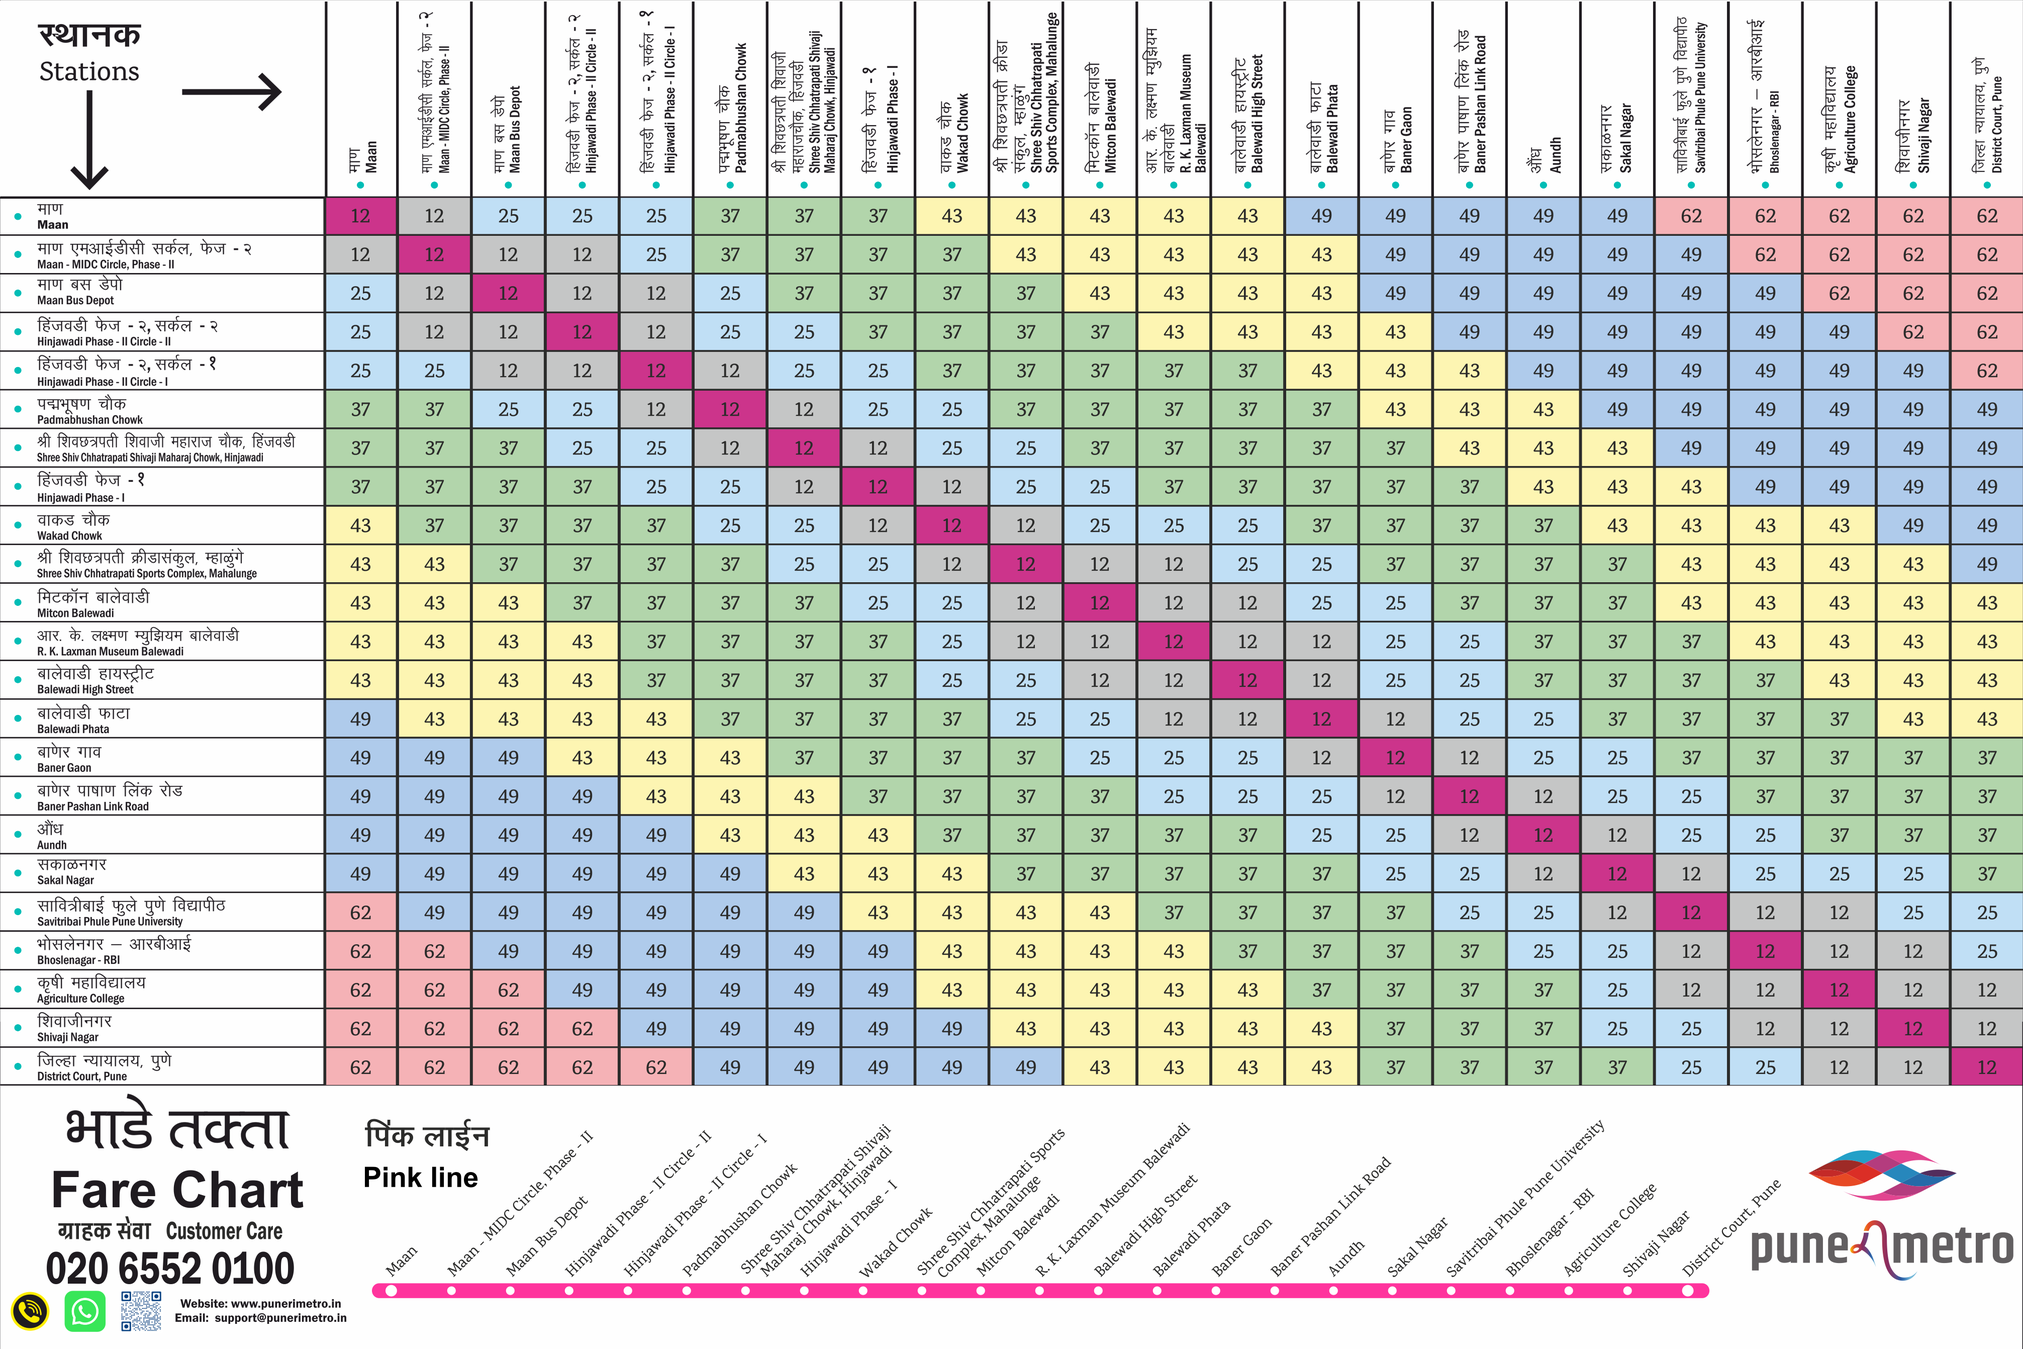
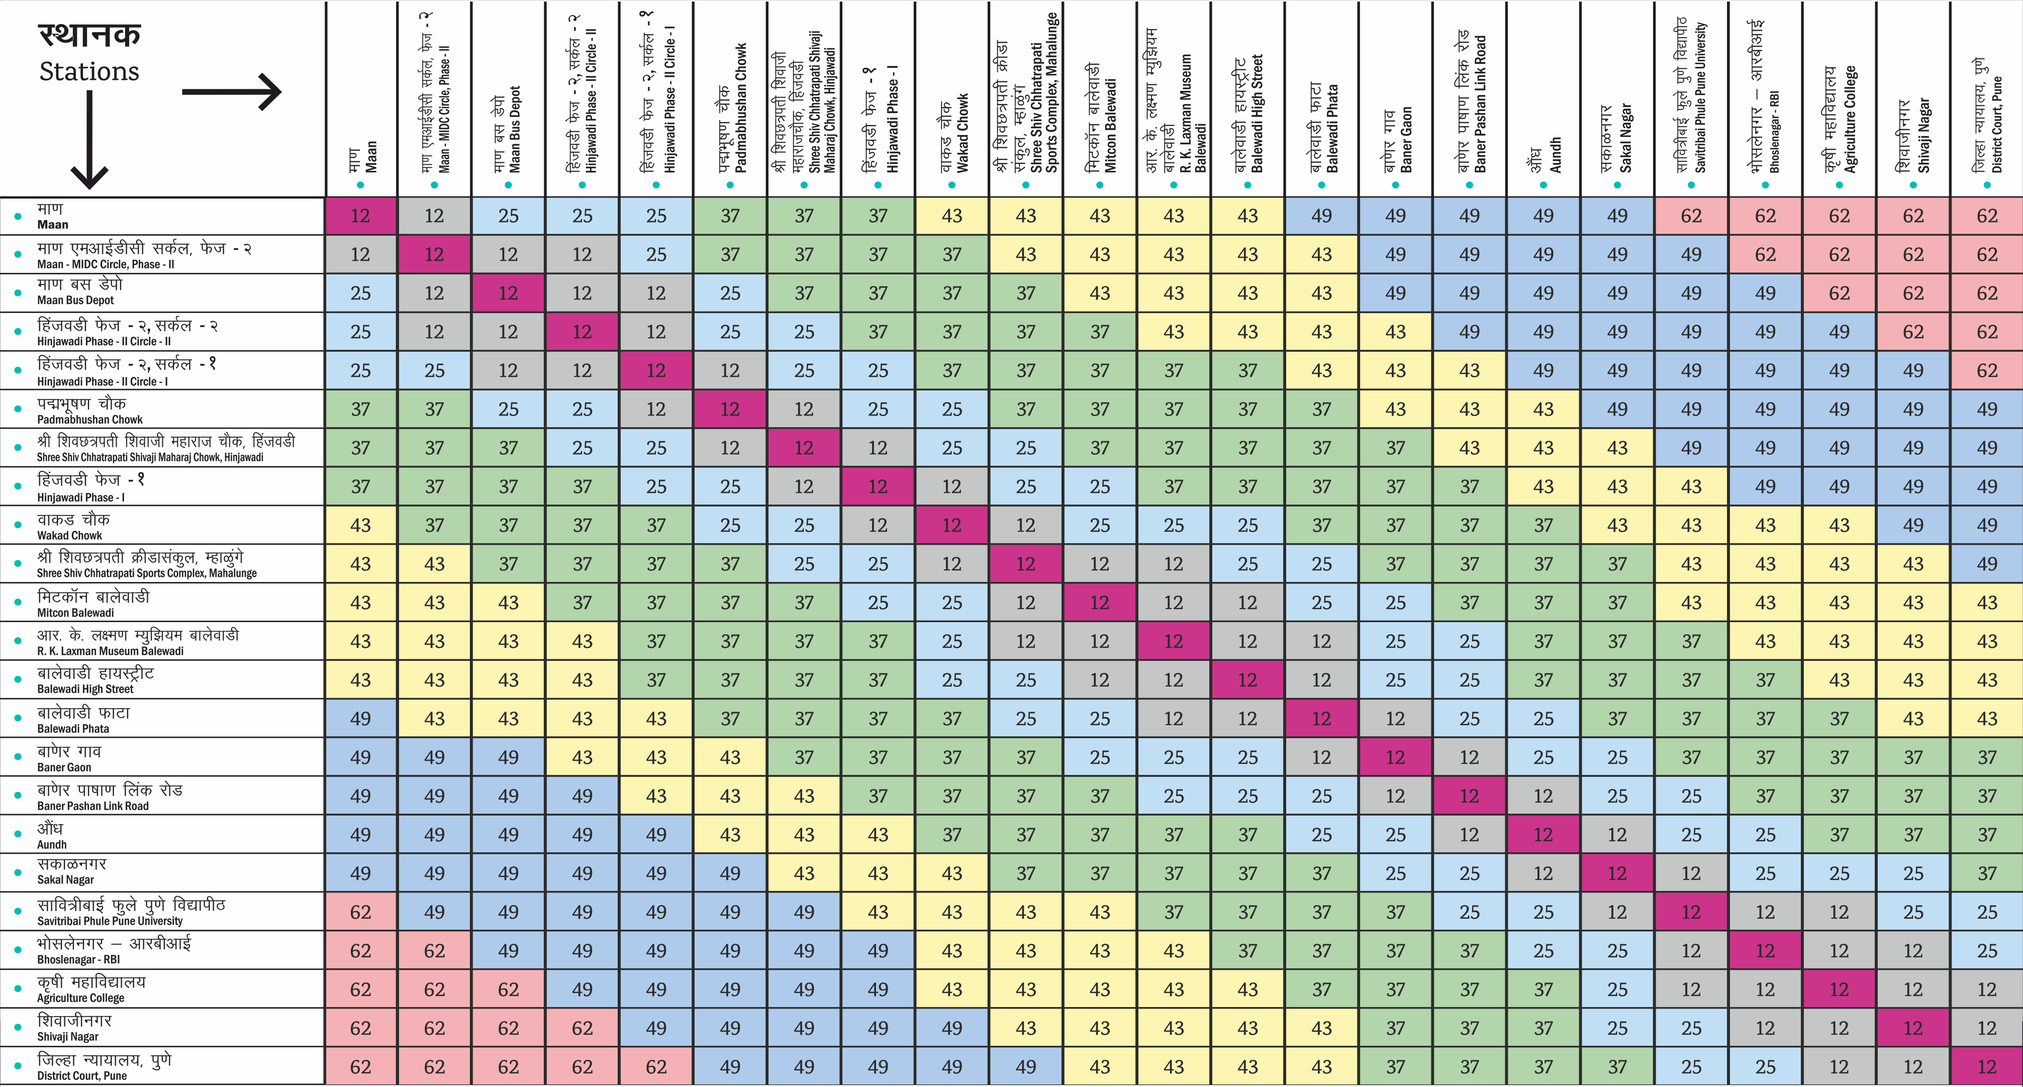
Show a readable fare table and drop the footer from the chart image
Fares and bilingual station names are read from the PDF's own shapes into config/fare_chart.php and rendered as a sticky-header table with row/column highlight. The chart image no longer includes the footer strip and opens via View original chart.

diff --git a/resources/js/components/landing/FareMatrix.tsx b/resources/js/components/landing/FareMatrix.tsx
@@ -1,0 +1,160 @@
+import { useState } from 'react';
+import { cn } from '@/lib/utils';
+
+export type FareStation = { en: string; mr: string };
+
+type Props = {
+    stations: FareStation[];
+    /** fares[row][column] is the fare in rupees between stations[row] and stations[column]. */
+    fares: number[][];
+};
+
+/** Colours of the official fare chart artwork. */
+const FARE_COLORS: Record<number, string> = {
+    12: '#c5c6c6',
+    25: '#c0dff5',
+    37: '#b2d5ab',
+    43: '#fdf5b2',
+    49: '#afcbeb',
+    62: '#f5b2b6',
+};
+const SAME_STATION_COLOR = '#cc348b';
+const LEGEND_FARES = Object.keys(FARE_COLORS).map(Number);
+
+export default function FareMatrix({ stations, fares }: Props) {
+    const [hover, setHover] = useState<{ row: number; col: number } | null>(
+        null,
+    );
+
+    return (
+        <div>
+            <ul
+                className="mb-4 flex flex-wrap items-center gap-x-5 gap-y-2"
+                aria-label="Fare colour key"
+            >
+                {LEGEND_FARES.map((fare) => (
+                    <li
+                        key={fare}
+                        className="flex items-center gap-2 font-montserrat text-sm font-semibold text-black"
+                    >
+                        <span
+                            className="size-5 rounded border border-black/10"
+                            style={{ background: FARE_COLORS[fare] }}
+                        />
+                        ₹{fare}
+                    </li>
+                ))}
+                <li className="flex items-center gap-2 font-montserrat text-xs text-gray-600">
+                    <span
+                        className="size-5 rounded border border-black/10"
+                        style={{ background: SAME_STATION_COLOR }}
+                    />
+                    Same station
+                </li>
+            </ul>
+
+            <div
+                className="max-h-[78vh] overflow-auto rounded-3xl border border-gray-200 bg-white"
+                onMouseLeave={() => setHover(null)}
+            >
+                <table className="border-separate border-spacing-0">
+                    <caption className="sr-only">
+                        Fare in rupees between every pair of Pune Metro Line 3
+                        stations. Find the starting station in the left column
+                        and the destination in the top row.
+                    </caption>
+                    <thead>
+                        <tr>
+                            <th className="sticky top-0 left-0 z-30 min-w-[160px] border-r border-b border-gray-300 bg-white p-3 text-left align-top md:min-w-[260px]">
+                                <span className="block font-montserrat text-base font-bold text-black">
+                                    स्थानक
+                                </span>
+                                <span className="block font-montserrat text-sm text-black">
+                                    Stations
+                                </span>
+                                <span className="font-inter mt-2 block text-xs text-gray-600">
+                                    From ↓ &nbsp; To →
+                                </span>
+                            </th>
+                            {stations.map((station, col) => (
+                                <th
+                                    key={station.en}
+                                    scope="col"
+                                    className={cn(
+                                        'sticky top-0 z-20 h-72 w-14 min-w-14 border-r border-b border-gray-300 bg-white px-1 py-3 align-bottom transition-colors',
+                                        hover?.col === col && 'bg-[#fbe3f0]',
+                                    )}
+                                >
+                                    <div className="mx-auto flex rotate-180 gap-1.5 text-left [writing-mode:vertical-rl]">
+                                        <span className="font-montserrat text-xs leading-tight font-bold text-black">
+                                            {station.en}
+                                        </span>
+                                        <span className="font-montserrat text-[13px] leading-tight text-black">
+                                            {station.mr}
+                                        </span>
+                                    </div>
+                                </th>
+                            ))}
+                        </tr>
+                    </thead>
+                    <tbody>
+                        {stations.map((from, row) => (
+                            <tr key={from.en}>
+                                <th
+                                    scope="row"
+                                    className={cn(
+                                        'sticky left-0 z-10 min-w-[160px] border-r border-b border-gray-300 bg-white px-3 py-1.5 text-left transition-colors md:min-w-[260px]',
+                                        hover?.row === row && 'bg-[#fbe3f0]',
+                                    )}
+                                >
+                                    <span className="block font-montserrat text-sm leading-tight text-black">
+                                        {from.mr}
+                                    </span>
+                                    <span className="block font-montserrat text-xs leading-tight font-bold text-black">
+                                        {from.en}
+                                    </span>
+                                </th>
+                                {stations.map((to, col) => {
+                                    const isSame = row === col;
+                                    const isHovered =
+                                        hover?.row === row && hover.col === col;
+
+                                    return (
+                                        <td
+                                            key={to.en}
+                                            title={
+                                                isSame
+                                                    ? from.en
+                                                    : `${from.en} → ${to.en}: ₹${fares[row][col]}`
+                                            }
+                                            onMouseEnter={() =>
+                                                setHover({ row, col })
+                                            }
+                                            className={cn(
+                                                'h-12 w-14 min-w-14 border-r border-b border-white/70 text-center font-montserrat text-sm font-semibold',
+                                                isSame
+                                                    ? 'text-white'
+                                                    : 'text-black',
+                                                isHovered &&
+                                                    'ring-2 ring-black ring-inset',
+                                            )}
+                                            style={{
+                                                background: isSame
+                                                    ? SAME_STATION_COLOR
+                                                    : FARE_COLORS[
+                                                          fares[row][col]
+                                                      ],
+                                            }}
+                                        >
+                                            {fares[row][col]}
+                                        </td>
+                                    );
+                                })}
+                            </tr>
+                        ))}
+                    </tbody>
+                </table>
+            </div>
+        </div>
+    );
+}

diff --git a/resources/js/pages/frontend/passenger-info/fare-table.tsx b/resources/js/pages/frontend/passenger-info/fare-table.tsx
@@ -1,5 +1,7 @@
 import { Head } from '@inertiajs/react';
 import { useState } from 'react';
+import FareMatrix from '@/components/landing/FareMatrix';
+import type { FareStation } from '@/components/landing/FareMatrix';
 import PageSectionHeading from '@/components/landing/PageSectionHeading';
 import ImageLightbox from '@/components/ui/image-lightbox';
 
@@ -7,7 +9,13 @@ const fareChartSrc = '/fare-table/pune-metro-fare-chart.png';
 const fareChartAlt =
     'Pune Metro Line 3 fare chart: fares between all 23 stations from Maan to District Court, Pune';
 
-export default function FareTable() {
+export default function FareTable({
+    stations,
+    fares,
+}: {
+    stations: FareStation[];
+    fares: number[][];
+}) {
     const [lightboxOpen, setLightboxOpen] = useState(false);
 
     return (
@@ -36,10 +44,16 @@ export default function FareTable() {
                     <PageSectionHeading>
                         Fare Table / Ticket Rules
                     </PageSectionHeading>
+                    <p className="font-inter mt-3 text-sm text-black">
+                        Fares in rupees between all 23 stations of Pune Metro
+                        Line 3 (Pink line). Find your starting station on the
+                        left and your destination along the top; the number
+                        where they meet is your fare.
+                    </p>
                 </div>
             </section>
 
-            {/* ── Content ── */}
+            {/* ── Fare Matrix ── */}
             {lightboxOpen && (
                 <ImageLightbox
                     src={fareChartSrc}
@@ -49,21 +63,16 @@ export default function FareTable() {
             )}
             <section className="bg-white pt-6 pb-8 md:pt-8 md:pb-24">
                 <div className="mx-auto max-w-[1303px] px-6 min-[1303px]:px-8 min-[1440px]:max-w-[1440px]">
-                    <button
-                        type="button"
-                        onClick={() => setLightboxOpen(true)}
-                        title="Click to enlarge"
-                        className="block w-full cursor-zoom-in overflow-hidden rounded-3xl border border-gray-200 bg-white"
-                    >
-                        <img
-                            src={fareChartSrc}
-                            alt={fareChartAlt}
-                            className="h-auto w-full object-contain"
-                        />
-                    </button>
-                    <p className="mt-3 font-montserrat text-xs text-gray-500">
-                        Tap or click the chart to zoom in.
-                    </p>
+                    <div className="mb-4 flex justify-end">
+                        <button
+                            type="button"
+                            onClick={() => setLightboxOpen(true)}
+                            className="rounded-md bg-brand-dark px-5 py-2.5 font-montserrat text-sm font-semibold text-white transition-opacity hover:opacity-90"
+                        >
+                            View original chart
+                        </button>
+                    </div>
+                    <FareMatrix stations={stations} fares={fares} />
                 </div>
             </section>
         </>

diff --git a/config/fare_chart.php b/config/fare_chart.php
@@ -1,0 +1,58 @@
+<?php
+
+/**
+ * Pune Metro Line 3 (Pink line) fare chart, read from the official fare chart artwork.
+ * `fares[row][column]` is the fare in rupees between `stations[row]` and `stations[column]`.
+ */
+return [
+    'stations' => [
+        ['en' => 'Maan', 'mr' => 'माण'],
+        ['en' => 'Maan - MIDC Circle, Phase - II', 'mr' => 'माण एमआईडीसी सर्कल, फेज - २'],
+        ['en' => 'Maan Bus Depot', 'mr' => 'माण बस डेपो'],
+        ['en' => 'Hinjawadi Phase - II Circle - II', 'mr' => 'हिंजवडी फेज - २, सर्कल - २'],
+        ['en' => 'Hinjawadi Phase - II Circle - I', 'mr' => 'हिंजवडी फेज - २, सर्कल - १'],
+        ['en' => 'Padmabhushan Chowk', 'mr' => 'पद्मभूषण चौक'],
+        ['en' => 'Shree Shiv Chhatrapati Shivaji Maharaj Chowk, Hinjawadi', 'mr' => 'श्री शिवछत्रपती शिवाजी महाराज चौक, हिंजवडी'],
+        ['en' => 'Hinjawadi Phase - I', 'mr' => 'हिंजवडी फेज - १'],
+        ['en' => 'Wakad Chowk', 'mr' => 'वाकड चौक'],
+        ['en' => 'Shree Shiv Chhatrapati Sports Complex, Mahalunge', 'mr' => 'श्री शिवछत्रपती क्रीडासंकुल, म्हाळुंगे'],
+        ['en' => 'Mitcon Balewadi', 'mr' => 'मिटकॉन बालेवाडी'],
+        ['en' => 'R. K. Laxman Museum Balewadi', 'mr' => 'आर. के. लक्ष्मण म्युझियम बालेवाडी'],
+        ['en' => 'Balewadi High Street', 'mr' => 'बालेवाडी हायस्ट्रीट'],
+        ['en' => 'Balewadi Phata', 'mr' => 'बालेवाडी फाटा'],
+        ['en' => 'Baner Gaon', 'mr' => 'बाणेर गाव'],
+        ['en' => 'Baner Pashan Link Road', 'mr' => 'बाणेर पाषाण लिंक रोड'],
+        ['en' => 'Aundh', 'mr' => 'औंध'],
+        ['en' => 'Sakal Nagar', 'mr' => 'सकाळनगर'],
+        ['en' => 'Savitribai Phule Pune University', 'mr' => 'सावित्रीबाई फुले पुणे विद्यापीठ'],
+        ['en' => 'Bhoslenagar - RBI', 'mr' => 'भोसलेनगर – आरबीआई'],
+        ['en' => 'Agriculture College', 'mr' => 'कृषी महाविद्यालय'],
+        ['en' => 'Shivaji Nagar', 'mr' => 'शिवाजीनगर'],
+        ['en' => 'District Court, Pune', 'mr' => 'जिल्हा न्यायालय, पुणे'],
+    ],
+    'fares' => [
+        [12, 12, 25, 25, 25, 37, 37, 37, 43, 43, 43, 43, 43, 49, 49, 49, 49, 49, 62, 62, 62, 62, 62],
+        [12, 12, 12, 12, 25, 37, 37, 37, 37, 43, 43, 43, 43, 43, 49, 49, 49, 49, 49, 62, 62, 62, 62],
+        [25, 12, 12, 12, 12, 25, 37, 37, 37, 37, 43, 43, 43, 43, 49, 49, 49, 49, 49, 49, 62, 62, 62],
+        [25, 12, 12, 12, 12, 25, 25, 37, 37, 37, 37, 43, 43, 43, 43, 49, 49, 49, 49, 49, 49, 62, 62],
+        [25, 25, 12, 12, 12, 12, 25, 25, 37, 37, 37, 37, 37, 43, 43, 43, 49, 49, 49, 49, 49, 49, 62],
+        [37, 37, 25, 25, 12, 12, 12, 25, 25, 37, 37, 37, 37, 37, 43, 43, 43, 49, 49, 49, 49, 49, 49],
+        [37, 37, 37, 25, 25, 12, 12, 12, 25, 25, 37, 37, 37, 37, 37, 43, 43, 43, 49, 49, 49, 49, 49],
+        [37, 37, 37, 37, 25, 25, 12, 12, 12, 25, 25, 37, 37, 37, 37, 37, 43, 43, 43, 49, 49, 49, 49],
+        [43, 37, 37, 37, 37, 25, 25, 12, 12, 12, 25, 25, 25, 37, 37, 37, 37, 43, 43, 43, 43, 49, 49],
+        [43, 43, 37, 37, 37, 37, 25, 25, 12, 12, 12, 12, 25, 25, 37, 37, 37, 37, 43, 43, 43, 43, 49],
+        [43, 43, 43, 37, 37, 37, 37, 25, 25, 12, 12, 12, 12, 25, 25, 37, 37, 37, 43, 43, 43, 43, 43],
+        [43, 43, 43, 43, 37, 37, 37, 37, 25, 12, 12, 12, 12, 12, 25, 25, 37, 37, 37, 43, 43, 43, 43],
+        [43, 43, 43, 43, 37, 37, 37, 37, 25, 25, 12, 12, 12, 12, 25, 25, 37, 37, 37, 37, 43, 43, 43],
+        [49, 43, 43, 43, 43, 37, 37, 37, 37, 25, 25, 12, 12, 12, 12, 25, 25, 37, 37, 37, 37, 43, 43],
+        [49, 49, 49, 43, 43, 43, 37, 37, 37, 37, 25, 25, 25, 12, 12, 12, 25, 25, 37, 37, 37, 37, 37],
+        [49, 49, 49, 49, 43, 43, 43, 37, 37, 37, 37, 25, 25, 25, 12, 12, 12, 25, 25, 37, 37, 37, 37],
+        [49, 49, 49, 49, 49, 43, 43, 43, 37, 37, 37, 37, 37, 25, 25, 12, 12, 12, 25, 25, 37, 37, 37],
+        [49, 49, 49, 49, 49, 49, 43, 43, 43, 37, 37, 37, 37, 37, 25, 25, 12, 12, 12, 25, 25, 25, 37],
+        [62, 49, 49, 49, 49, 49, 49, 43, 43, 43, 43, 37, 37, 37, 37, 25, 25, 12, 12, 12, 12, 25, 25],
+        [62, 62, 49, 49, 49, 49, 49, 49, 43, 43, 43, 43, 37, 37, 37, 37, 25, 25, 12, 12, 12, 12, 25],
+        [62, 62, 62, 49, 49, 49, 49, 49, 43, 43, 43, 43, 43, 37, 37, 37, 37, 25, 12, 12, 12, 12, 12],
+        [62, 62, 62, 62, 49, 49, 49, 49, 49, 43, 43, 43, 43, 43, 37, 37, 37, 25, 25, 12, 12, 12, 12],
+        [62, 62, 62, 62, 62, 49, 49, 49, 49, 49, 43, 43, 43, 43, 37, 37, 37, 37, 25, 25, 12, 12, 12],
+    ],
+];

diff --git a/tests/Feature/PagesTest.php b/tests/Feature/PagesTest.php
@@ -38,10 +38,46 @@ test('sitemap excludes unpublished posts', function () {
         ->assertDontSee(route('blog.show', $post->slug), false);
 });
 
-test('fare table page renders and ships the fare chart image', function () {
+test('fare table page renders with the stations and fares and ships the chart image', function () {
     $this->get(route('passenger-info.fare-table'))
         ->assertOk()
-        ->assertInertia(fn ($page) => $page->component('frontend/passenger-info/fare-table'));
+        ->assertInertia(fn ($page) => $page
+            ->component('frontend/passenger-info/fare-table')
+            ->has('stations', 23)
+            ->has('fares', 23)
+            ->where('stations.0.en', 'Maan')
+            ->where('stations.22.en', 'District Court, Pune')
+        );
 
     expect(public_path('fare-table/pune-metro-fare-chart.png'))->toBeFile();
+});
+
+test('fare chart data is a complete symmetric matrix with a zero-distance diagonal', function () {
+    $stations = config('fare_chart.stations');
+    $fares = config('fare_chart.fares');
+    $count = count($stations);
+
+    expect($fares)->toHaveCount($count);
+
+    foreach ($fares as $row => $rowFares) {
+        expect($rowFares)->toHaveCount($count);
+        expect($fares[$row][$row])->toBe(12);
+
+        foreach ($rowFares as $column => $fare) {
+            expect($fare)->toBeIn([12, 25, 37, 43, 49, 62]);
+            expect($fares[$column][$row])->toBe($fare);
+        }
+    }
+
+    foreach ($stations as $station) {
+        expect($station['en'])->not->toBeEmpty();
+        expect($station['mr'])->not->toBeEmpty();
+    }
+
+    // Fares never drop as stations get further apart along the line.
+    foreach ($fares as $row => $rowFares) {
+        for ($column = $row + 1; $column < $count; $column++) {
+            expect($rowFares[$column])->toBeGreaterThanOrEqual($rowFares[$column - 1]);
+        }
+    }
 });

diff --git a/app/Http/Controllers/PagesController.php b/app/Http/Controllers/PagesController.php
@@ -124,7 +124,10 @@ class PagesController extends Controller
 
     public function fareTable(): Response
     {
-        return Inertia::render('frontend/passenger-info/fare-table');
+        return Inertia::render('frontend/passenger-info/fare-table', [
+            'stations' => config('fare_chart.stations'),
+            'fares' => config('fare_chart.fares'),
+        ]);
     }
 
     public function dosAndDonts(): Response
